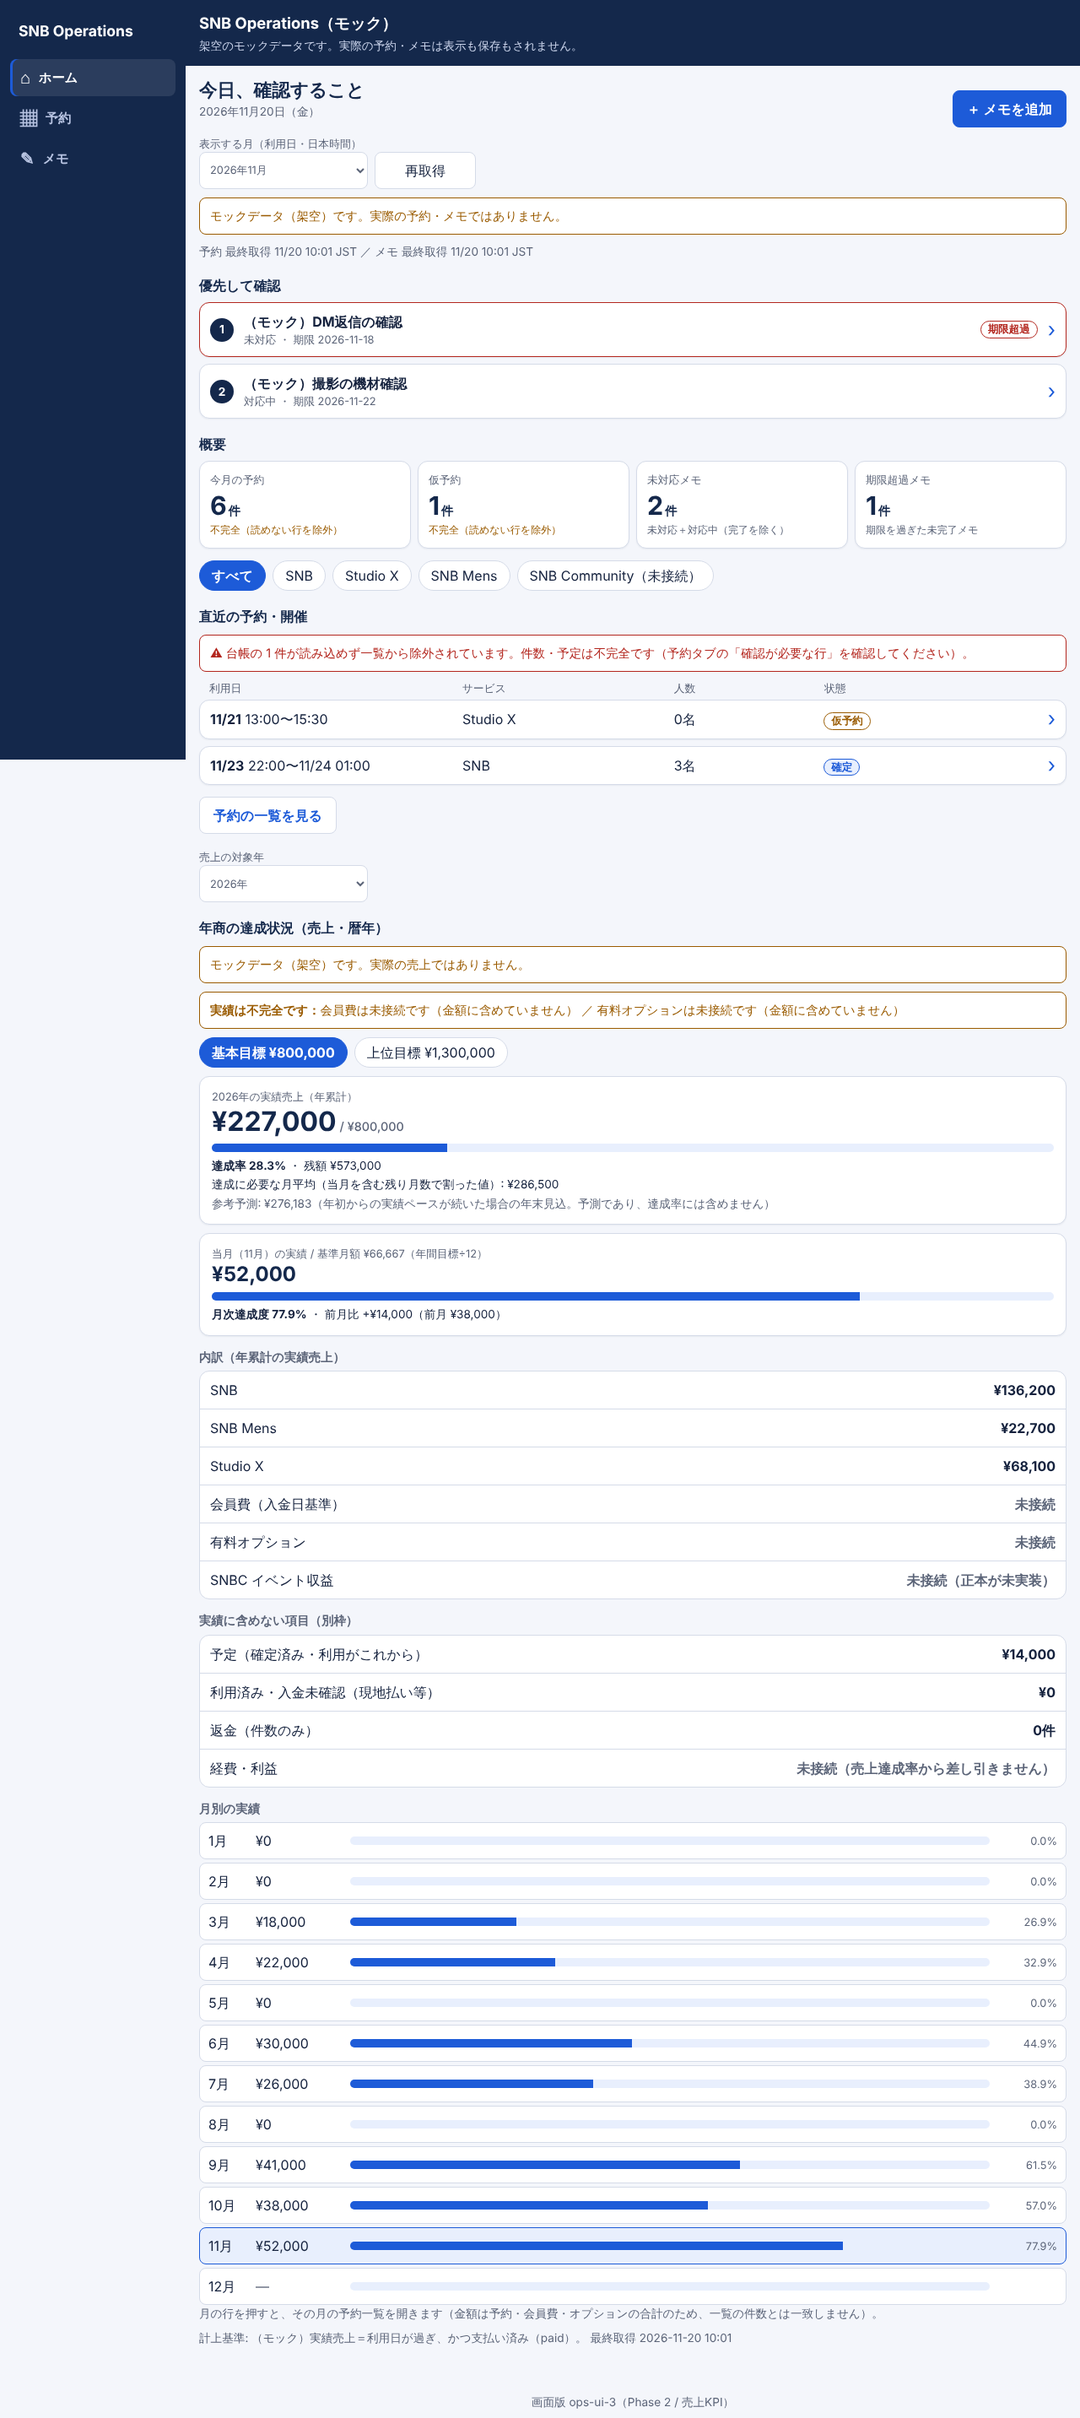
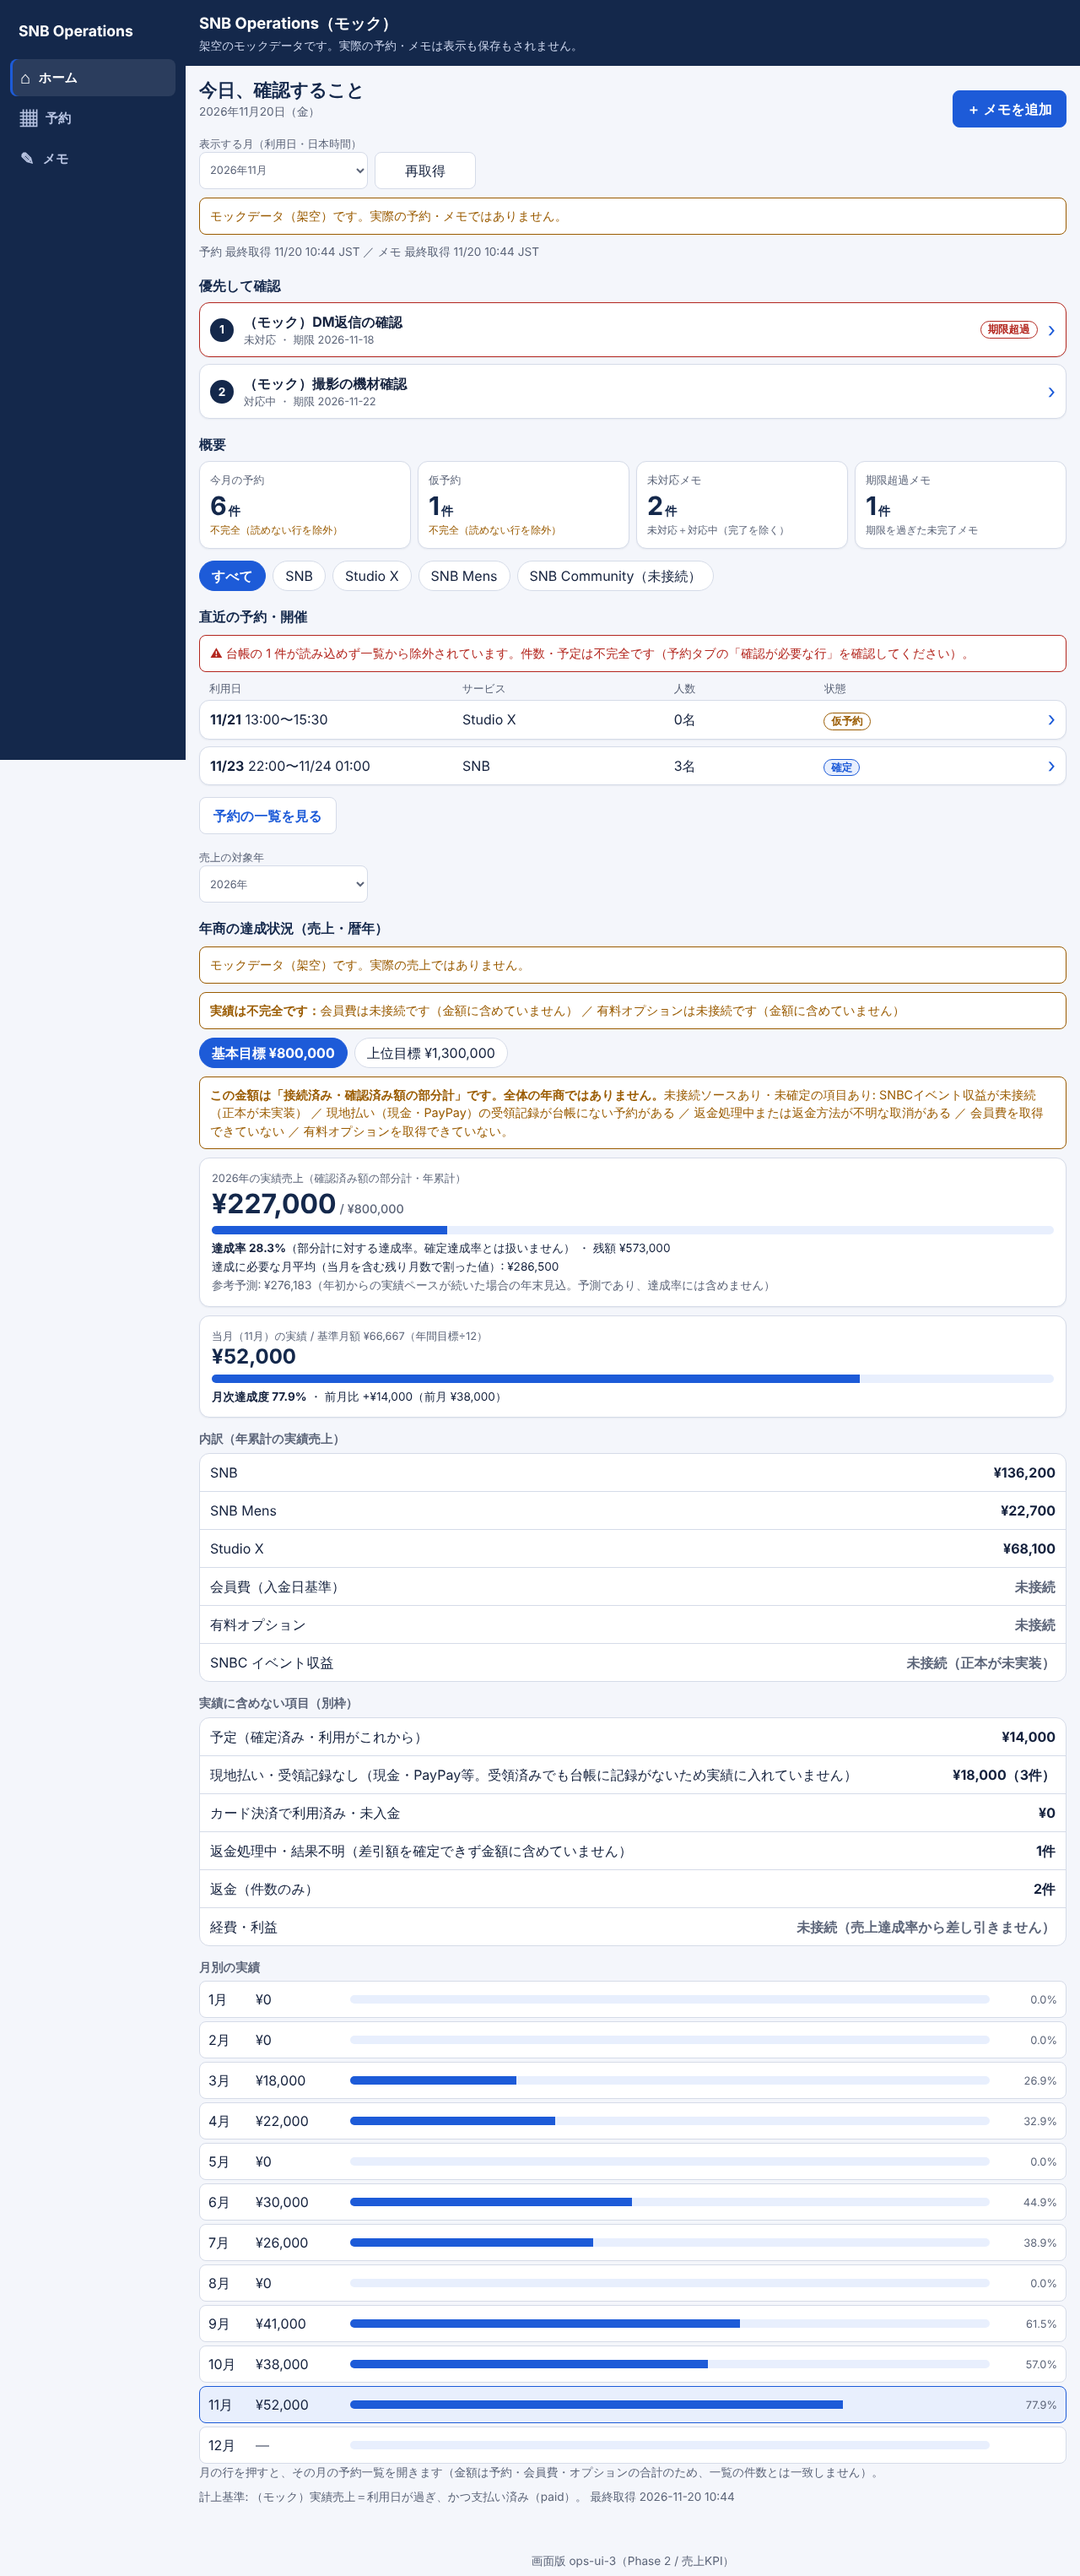
Ops UI PR-B: 現地払い・取消返金の差引額を反映し、実績を確認済み額の部分計と明示（タケルレビュー対応・Refs #990）
Claude-Session: https://claude.ai/code/session_01UDjW9oFT3CbqEQh21aquzv

diff --git a/gas/ops-reservations/OpsPage.html b/gas/ops-reservations/OpsPage.html
@@ -1336,6 +1336,20 @@
     return src.state === 'error' ? name + 'の取得に失敗しました（金額に含めていません）' : name + 'は未接続です（金額に含めていません）';
   }
 
+  var PARTIAL_TEXT = {
+    SNBC_NOT_CONNECTED: 'SNBCイベント収益が未接続（正本が未実装）',
+    ONSITE_PAYMENT_UNCONFIRMED: '現地払い（現金・PayPay）の受領記録が台帳にない予約がある',
+    REFUND_UNSETTLED: '返金処理中または返金方法が不明な取消がある',
+    AMOUNT_UNKNOWN: '金額が読めない確定予約がある',
+    MEMBERS_UNAVAILABLE: '会員費を取得できていない',
+    OPTIONS_UNAVAILABLE: '有料オプションを取得できていない',
+    OPTION_UNMATCHED: '紐づく予約のない支払い済みオプションがある'
+  };
+  function partialText(reasons) {
+    var list = (reasons || []).map(function (c) { return PARTIAL_TEXT[c]; }).filter(Boolean);
+    return list.length ? '未接続ソースあり・未確定の項目あり: ' + list.map(esc).join(' ／ ') + '。' : '';
+  }
+
   function renderMonths(rev, goalAmount, year) {
     var base = goalAmount / 12;
     var rows = rev.months.map(function (m) {
@@ -1372,8 +1386,10 @@
     html += '<div class="rtabs" role="group" aria-label="目標の切替">' + rev.goals.map(function (g) {
       return '<button type="button" class="chip" data-rev="goal" data-goal="' + esc(g.id) + '" aria-pressed="' + (g.id === goal.id ? 'true' : 'false') + '">' + esc(g.label) + ' ' + esc(yen(g.amount)) + '</button>';
     }).join('') + '</div>';
-    html += '<div class="rhero"><div class="rlabel">' + esc(rev.year) + '年の実績売上（年累計）</div><div class="rnum">' + esc(yen(t.actual)) + '<small> / ' + esc(yen(goal.amount)) + '</small></div>' +
-      bar(goal.rate) + '<div class="rsub"><strong>達成率 ' + esc(pct(goal.rate)) + '</strong> ・ 残額 ' + esc(yen(goal.remaining)) + '</div>';
+    var part = rev.partial || { isPartial: false, reasons: [] };
+    if (part.isPartial) html += '<div class="banner stale" role="note"><strong>この金額は「接続済み・確認済み額の部分計」です。全体の年商ではありません。</strong>' + partialText(part.reasons) + '</div>';
+    html += '<div class="rhero"><div class="rlabel">' + esc(rev.year) + '年の実績売上（確認済み額の部分計・年累計）</div><div class="rnum">' + esc(yen(t.actual)) + '<small> / ' + esc(yen(goal.amount)) + '</small></div>' +
+      bar(goal.rate) + '<div class="rsub"><strong>達成率 ' + esc(pct(goal.rate)) + '</strong>' + (part.isPartial ? '（部分計に対する達成率。確定達成率とは扱いません）' : '') + ' ・ 残額 ' + esc(yen(goal.remaining)) + '</div>';
     if (goal.requiredMonthlyAverage !== null) html += '<div class="rsub">達成に必要な月平均（当月を含む残り月数で割った値）: ' + esc(yen(goal.requiredMonthlyAverage)) + '</div>';
     if (rev.forecast !== null) html += '<div class="rsub dim">参考予測: ' + esc(yen(rev.forecast)) + '（年初からの実績ペースが続いた場合の年末見込。予測であり、達成率には含めません）</div>';
     html += '</div>';
@@ -1395,7 +1411,9 @@
 
     html += '<h3 class="sub3">実績に含めない項目（別枠）</h3><ul class="rbreak">' +
       '<li><span>予定（確定済み・利用がこれから）</span><b>' + esc(yen(t.scheduled)) + '</b></li>' +
-      '<li><span>利用済み・入金未確認（現地払い等）</span><b>' + esc(yen(t.unconfirmed)) + '</b></li>' +
+      '<li><span>現地払い・受領記録なし（現金・PayPay等。受領済みでも台帳に記録がないため実績に入れていません）</span><b>' + esc(yen(t.onsiteUnconfirmed || 0)) + '（' + esc(t.onsiteUnconfirmedCount || 0) + '件）</b></li>' +
+      '<li><span>カード決済で利用済み・未入金</span><b>' + esc(yen(t.unconfirmed)) + '</b></li>' +
+      '<li><span>返金処理中・結果不明（差引額を確定できず金額に含めていません）</span><b>' + esc(t.refundUnsettledCount || 0) + '件</b></li>' +
       '<li><span>返金（件数のみ）</span><b>' + esc(t.refundedCount) + '件</b></li>' +
       '<li><span>経費・利益</span><b class="dim">未接続（売上達成率から差し引きません）</b></li></ul>';
     html += '<h3 class="sub3">月別の実績</h3>' + renderMonths(rev, goal.amount, rev.year);

diff --git a/_ops-app/frontend/revenue-client.js b/_ops-app/frontend/revenue-client.js
@@ -58,6 +58,20 @@
     return src.state === 'error' ? name + 'の取得に失敗しました（金額に含めていません）' : name + 'は未接続です（金額に含めていません）';
   }
 
+  var PARTIAL_TEXT = {
+    SNBC_NOT_CONNECTED: 'SNBCイベント収益が未接続（正本が未実装）',
+    ONSITE_PAYMENT_UNCONFIRMED: '現地払い（現金・PayPay）の受領記録が台帳にない予約がある',
+    REFUND_UNSETTLED: '返金処理中または返金方法が不明な取消がある',
+    AMOUNT_UNKNOWN: '金額が読めない確定予約がある',
+    MEMBERS_UNAVAILABLE: '会員費を取得できていない',
+    OPTIONS_UNAVAILABLE: '有料オプションを取得できていない',
+    OPTION_UNMATCHED: '紐づく予約のない支払い済みオプションがある'
+  };
+  function partialText(reasons) {
+    var list = (reasons || []).map(function (c) { return PARTIAL_TEXT[c]; }).filter(Boolean);
+    return list.length ? '未接続ソースあり・未確定の項目あり: ' + list.map(esc).join(' ／ ') + '。' : '';
+  }
+
   function renderMonths(rev, goalAmount, year) {
     var base = goalAmount / 12;
     var rows = rev.months.map(function (m) {
@@ -94,8 +108,10 @@
     html += '<div class="rtabs" role="group" aria-label="目標の切替">' + rev.goals.map(function (g) {
       return '<button type="button" class="chip" data-rev="goal" data-goal="' + esc(g.id) + '" aria-pressed="' + (g.id === goal.id ? 'true' : 'false') + '">' + esc(g.label) + ' ' + esc(yen(g.amount)) + '</button>';
     }).join('') + '</div>';
-    html += '<div class="rhero"><div class="rlabel">' + esc(rev.year) + '年の実績売上（年累計）</div><div class="rnum">' + esc(yen(t.actual)) + '<small> / ' + esc(yen(goal.amount)) + '</small></div>' +
-      bar(goal.rate) + '<div class="rsub"><strong>達成率 ' + esc(pct(goal.rate)) + '</strong> ・ 残額 ' + esc(yen(goal.remaining)) + '</div>';
+    var part = rev.partial || { isPartial: false, reasons: [] };
+    if (part.isPartial) html += '<div class="banner stale" role="note"><strong>この金額は「接続済み・確認済み額の部分計」です。全体の年商ではありません。</strong>' + partialText(part.reasons) + '</div>';
+    html += '<div class="rhero"><div class="rlabel">' + esc(rev.year) + '年の実績売上（確認済み額の部分計・年累計）</div><div class="rnum">' + esc(yen(t.actual)) + '<small> / ' + esc(yen(goal.amount)) + '</small></div>' +
+      bar(goal.rate) + '<div class="rsub"><strong>達成率 ' + esc(pct(goal.rate)) + '</strong>' + (part.isPartial ? '（部分計に対する達成率。確定達成率とは扱いません）' : '') + ' ・ 残額 ' + esc(yen(goal.remaining)) + '</div>';
     if (goal.requiredMonthlyAverage !== null) html += '<div class="rsub">達成に必要な月平均（当月を含む残り月数で割った値）: ' + esc(yen(goal.requiredMonthlyAverage)) + '</div>';
     if (rev.forecast !== null) html += '<div class="rsub dim">参考予測: ' + esc(yen(rev.forecast)) + '（年初からの実績ペースが続いた場合の年末見込。予測であり、達成率には含めません）</div>';
     html += '</div>';
@@ -117,7 +133,9 @@
 
     html += '<h3 class="sub3">実績に含めない項目（別枠）</h3><ul class="rbreak">' +
       '<li><span>予定（確定済み・利用がこれから）</span><b>' + esc(yen(t.scheduled)) + '</b></li>' +
-      '<li><span>利用済み・入金未確認（現地払い等）</span><b>' + esc(yen(t.unconfirmed)) + '</b></li>' +
+      '<li><span>現地払い・受領記録なし（現金・PayPay等。受領済みでも台帳に記録がないため実績に入れていません）</span><b>' + esc(yen(t.onsiteUnconfirmed || 0)) + '（' + esc(t.onsiteUnconfirmedCount || 0) + '件）</b></li>' +
+      '<li><span>カード決済で利用済み・未入金</span><b>' + esc(yen(t.unconfirmed)) + '</b></li>' +
+      '<li><span>返金処理中・結果不明（差引額を確定できず金額に含めていません）</span><b>' + esc(t.refundUnsettledCount || 0) + '件</b></li>' +
       '<li><span>返金（件数のみ）</span><b>' + esc(t.refundedCount) + '件</b></li>' +
       '<li><span>経費・利益</span><b class="dim">未接続（売上達成率から差し引きません）</b></li></ul>';
     html += '<h3 class="sub3">月別の実績</h3>' + renderMonths(rev, goal.amount, rev.year);

diff --git a/_ops-app/frontend/mock-adapter.js b/_ops-app/frontend/mock-adapter.js
@@ -141,7 +141,8 @@
       return { ok: true, contractVersion: 1, fetchedAt: isoNow(nowMs), excludedRows: 0, revenue: {
         year: year, currentMonth: year === yearNow ? monthNow : null, basis: '（モック）実績売上＝利用日が過ぎ、かつ支払い済み（paid）。',
         sources: { studio: { state: 'ready' }, options: { state: 'not_connected' }, members: { state: 'not_connected' }, snbc: { state: 'not_connected' }, expenses: { state: 'not_connected' } },
-        months: months, totals: { actual: total, scheduled: 14000, unconfirmed: 0, refundedCount: 0, unknownAmountCount: 0, studioByService: by, options: 0, members: 0 },
+        partial: { isPartial: true, reasons: ['SNBC_NOT_CONNECTED', 'ONSITE_PAYMENT_UNCONFIRMED', 'REFUND_UNSETTLED', 'MEMBERS_UNAVAILABLE', 'OPTIONS_UNAVAILABLE'] },
+        months: months, totals: { actual: total, scheduled: 14000, unconfirmed: 0, refundedCount: 2, unknownAmountCount: 0, onsiteUnconfirmed: 18000, onsiteUnconfirmedCount: 3, refundUnsettledCount: 1, retained: 0, studioByService: by, options: 0, members: 0 },
         goals: goals, forecast: year === yearNow ? Math.round(total / 300 * 365) : null, notes: { pendingCount: 0, optionUnmatchedCount: 0 } } };
     }
 
